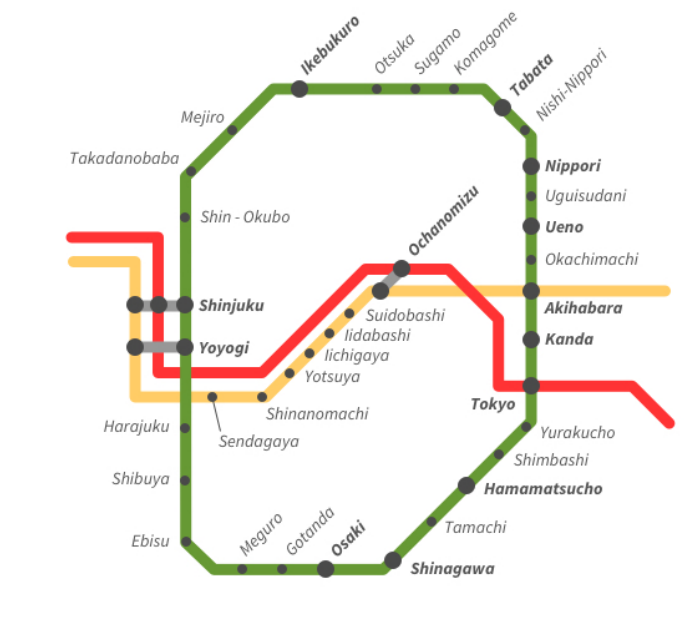
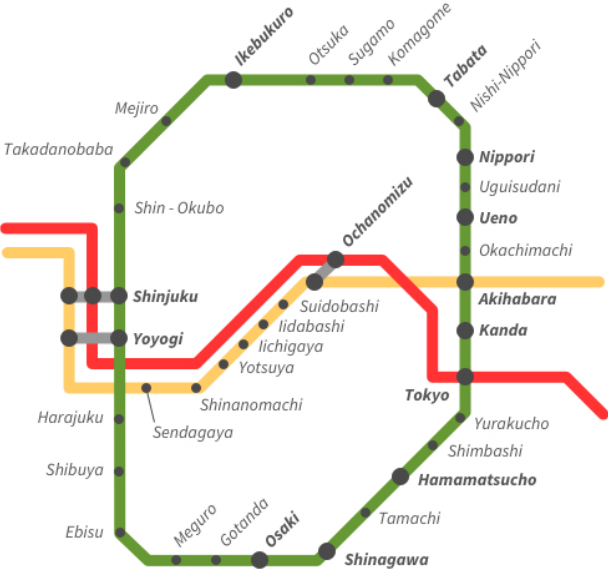
Add files via upload

Changed region(s): [[0.0, 0.0, 1.0, 1.0], [0.8125, 0.0598, 0.9062, 0.1494]]

diff --git a/japonVisual.py b/japonVisual.py
@@ -1,5 +1,9 @@
 # -*- coding: utf-8 -*-
-
+import matplotlib
+matplotlib.use('TkAgg')
+from matplotlib.backends.backend_tkagg import FigureCanvasTkAgg
+from matplotlib.figure import Figure
+import matplotlib.pyplot as plt
 from tkinter import *
 from tkinter.ttk import *
 from networkx import *
@@ -37,15 +41,55 @@ diccNodos = {"Shinagawa": {'f': -1, 'g': -1, 'puntero': -1, 'posH': 0} ,"Osaki":
 
 #Grafo ()
 G = Graph()
-'''listaNodos=["Shinagawa","Osaki","Gotanda","Meguro","Ebisu","Shibuya","Harajuku","Yoyogi","Sobu Yoyogi",
-                            "Yamanote Yoyogi", "Shinjuku","Sobu Shinjuku", "Chuo Shinjuku", "Yamanote Shinjuku","Shin-Okubo",
-                            "Takadanobaba","Mejiro","Ikebukuro","Otsuka","Sugamo",
-                            "Komagome","Tabata","Nishi-Nippori","Nippori","Uguisudani","Ueno","Okachimachi",
-                            "Akihabara", "Yamanote Akihabara", "Sobu Akihabara","Kanda","Tokyo", "Yamanote Tokyo","Chuo Tokyo" ,
-                            "Yurakucho","Shimbashi","Hamamatsucho","Tamachi",
-                            "Ochanomizu", "Sobu Ochanomizu", "Chuo Ochanomizu","Suidobashi","Iidabashi",
-                            "Ichigaya","Yotsuya","Shinanomachi","Sendagaya"]
-G.add_nodes_from(listaNodos)'''
+posNodos={
+"Shinagawa":(327,18),
+"Osaki":(260,9),
+"Gotanda":(215,9),
+"Meguro":(175,9),
+"Ebisu":(120,36),
+"Shibuya":(120,97),
+"Harajuku":(120,150),
+"Yoyogi":(120,230),
+"Sobu Yoyogi":(70,230),
+"Yamanote Yoyogi":(120,230),
+"Shinjuku":(120,273),
+"Sobu Shinjuku":(70,273),
+"Chuo Shinjuku":(92,315),
+"Yamanote Shinjuku":(120,273),
+"Shin-Okubo":(120,360),
+"Takadanobaba":(125,406),
+"Mejiro":(166,467),
+"Ikebukuro":(233,490),
+"Otsuka":(311,488),
+"Sugamo":(350,488),
+"Komagome":(387,488),
+"Tabata":(436,470),
+"Nishi-Nippori":(458,446),
+"Nippori":(465,410),
+"Uguisudani":(465,380),
+"Ueno":(465,350),
+"Okachimachi":(465,317),
+"Akihabara":(465,286),
+"Yamanote Akihabara":(465,286),
+"Sobu Akihabara":(410,286),
+"Kanda":(465,238),
+"Tokyo":(465,192),
+"Yamanote Tokyo":(465,192),
+"Chuo Tokyo":(415,192),
+"Yurakucho":(460,150),
+"Shimbashi":(433,123),
+"Hamamatsucho":(400,91),
+"Tamachi":(365,56),
+"Ochanomizu":(335,309),
+"Sobu Ochanomizu":(314,286),
+"Chuo Ochanomizu":(335,315),
+"Suidobashi":(283,264),
+"Iidabashi":(263,244),
+"Ichigaya":(243,224),
+"Yotsuya":(223,204),
+"Shinanomachi":(195,180),
+"Sendagaya":(146,180)
+}
 
 G.add_edges_from([("Yamanote Shinjuku","Shin-Okubo", {'color':'green', 'weight':1.3}),
                  ("Shin-Okubo","Takadanobaba", {'color':'green', 'weight':1.4}),
@@ -64,7 +108,7 @@ G.add_edges_from([("Yamanote Shinjuku","Shin-Okubo", {'color':'green', 'weight':
                  ("Yamanote Akihabara", "Akihabara", {'color':'grey', 'weight':0.0}),
                  ("Yamanote Akihabara", "Kanda", {'color':'green', 'weight':0.7}),
                  ("Kanda", "Yamanote Tokyo", {'color':'green', 'weight':1.3}),
-                 ("Yamanote Tokyo", "Tokyo", {'color':'grey', 'weight':0.0}),
+                 ("Yamanote Tokyo", "Tokyo", {'color':'blue', 'weight':0.0}),
                  ("Yamanote Tokyo", "Yurakucho", {'color':'green', 'weight':0.8}),
                  ("Yurakucho", "Shimbashi", {'color':'green', 'weight':1.1}),
                  ("Shimbashi", "Hamamatsucho", {'color':'green', 'weight':1.2}),
@@ -77,15 +121,15 @@ G.add_edges_from([("Yamanote Shinjuku","Shin-Okubo", {'color':'green', 'weight':
                  ("Ebisu", "Shibuya", {'color':'green', 'weight':1.6}),
                  ("Shibuya", "Harajuku", {'color':'green', 'weight':1.2}),
                  ("Harajuku", "Yamanote Yoyogi", {'color':'green', 'weight':1.5}),
-                 ("Yamanote Yoyogi", "Yoyogi", {'color':'grey', 'weight':0.0}),
+                 ("Yamanote Yoyogi", "Yoyogi", {'color':'blue', 'weight':0.0}),
                  ("Yamanote Yoyogi", "Yamanote Shinjuku", {'color':'green', 'weight':0.7}),
-                 ("Yamanote Shinjuku", "Shinjuku", {'color':'grey', 'weight':0.0}),
-                 ("Shinjuku", "Chuo Shinjuku", {'color':'grey', 'weight':0.0}),
+                 ("Yamanote Shinjuku", "Shinjuku", {'color':'blue', 'weight':0.0}),
+                 ("Shinjuku", "Chuo Shinjuku", {'color':'blue', 'weight':0.0}),
                  ("Chuo Shinjuku", "Chuo Ochanomizu", {'color':'red', 'weight':7.7}),
-                 ("Chuo Ochanomizu", "Ochanomizu", {'color':'grey', 'weight':0.0}),
+                 ("Chuo Ochanomizu", "Ochanomizu", {'color':'blue', 'weight':0.0}),
                  ("Chuo Ochanomizu", "Chuo Tokyo", {'color':'red', 'weight':2.6}),
-                 ("Chuo Tokyo", "Tokyo", {'color':'grey', 'weight':0.0}),
-                 ("Shinjuku", "Sobu Shinjuku", {'color':'grey', 'weight':0.0}),
+                 ("Chuo Tokyo", "Tokyo", {'color':'blue', 'weight':0.0}),
+                 ("Shinjuku", "Sobu Shinjuku", {'color':'blue', 'weight':0.0}),
                  ("Sobu Shinjuku", "Sobu Yoyogi", {'color':'yellow', 'weight':0.7}),
                  ("Sobu Yoyogi", "Yoyogi", {'color':'grey', 'weight':0.0}),
                  ("Sobu Yoyogi", "Sendagaya", {'color':'yellow', 'weight':1.0}),
@@ -95,16 +139,15 @@ G.add_edges_from([("Yamanote Shinjuku","Shin-Okubo", {'color':'green', 'weight':
                  ("Ichigaya", "Iidabashi", {'color':'yellow', 'weight':1.5}),
                  ("Iidabashi", "Suidobashi", {'color':'yellow', 'weight':0.9}),
                  ("Suidobashi", "Sobu Ochanomizu", {'color':'yellow', 'weight':0.8}),
-                 ("Sobu Ochanomizu", "Ochanomizu", {'color':'grey', 'weight':0.0}),
+                 ("Sobu Ochanomizu", "Ochanomizu", {'color':'blue', 'weight':0.0}),
                  ("Sobu Ochanomizu", "Sobu Akihabara", {'color':'yellow', 'weight':0.9}),
-                 ("Sobu Akihabara", "Akihabara", {'color':'grey', 'weight':0.0}),
+                 ("Sobu Akihabara", "Akihabara", {'color':'blue', 'weight':0.0}),
                  ("Yamanote Yoyogi", "Sobu Yoyogi", {'color' :'grey', 'weight':0.2}),
                  ("Yamanote Shinjuku", "Chuo Shinjuku", {'color':'grey', 'weight':0.2}),
                  ("Yamanote Akihabara", "Sobu Akihabara", {'color':'grey', 'weight':0.2})
                  ])
 
-#nx.draw(G, pos=nx.spectral_layout(G),with_labels=True, font_weight='bold')
-
+colorLinea={'green': 'Yamanote', 'red': 'Chuo', 'yellow': 'Sobu', 'grey': 'Interchange','blue': 'Simbolic'}
 
 def algoritmoA_Estrella(origenNombre, destinoNombre,G) :
     origen = diccNodos[origenNombre]
@@ -198,29 +241,24 @@ def cogerLinea(fila):
             next(reader)
         return next(reader)
     
-def eliminarNodosAux(origenNombre, destinoNombre, G):
+def eliminarNodosAux(G,origenNombre=None, destinoNombre=None):
     L = ['Shinjuku', 'Akihabara', 'Tokyo', 'Ochanomizu' , 'Yoyogi']
     for nodo in L: 
         if (nodo != origenNombre and nodo != destinoNombre) :
            G.remove_node(nodo)
-
-colorLinea={'green': 'Yamanote', 'red': 'Chuo', 'yellow': 'Sobu', 'grey': 'Interchange'}
-
-
 
 def calcularResumenCamino():
     if(seleccionOrigen.current() !=-1 and seleccionDestino.current()!=-1):
         #Habilita el boton de dibujar
         if str(botonPintarGrafo['state']) == 'disabled':
             botonPintarGrafo['state'] = 'normal'
-
+        global camino
         treeResultado.delete(*treeResultado.get_children())
         origenNombre = seleccionOrigen.get()
         destinoNombre = seleccionDestino.get()
         Gcopia = G.copy()
-        eliminarNodosAux(origenNombre, destinoNombre, Gcopia)
+        eliminarNodosAux(Gcopia, origenNombre, destinoNombre)
         camino = algoritmoA_Estrella(origenNombre, destinoNombre, Gcopia.copy())
-        print (camino)
         linea = None
         longCamino = len(camino)
         for i in range(longCamino):
@@ -229,15 +267,59 @@ def calcularResumenCamino():
             elif i==longCamino-1:
                 treeResultado.insert('','end',text=camino[i])
             else:
-                print (linea)
                 if linea==None or colorLinea[Gcopia[camino[i-1]][camino[i]]['color']]!=linea:
-                    linea=colorLinea[Gcopia[camino[i-1]][camino[i]]['color']]
-                    if i != 1:
+                    if colorLinea[Gcopia[camino[i-1]][camino[i]]['color']] == 'Interchange':
+                        linea=colorLinea[Gcopia[camino[i]][camino[i+1]]['color']]
+                    else:
+                         linea=colorLinea[Gcopia[camino[i-1]][camino[i]]['color']]
+                    if i ==1:
+                        treeResultado.insert(padre,'end',text=camino[i])
+                    else:
                         padre = treeResultado.insert('','end',text=camino[i])
+                    treeResultado.set(padre,'linea',linea)
+                    #treeResultado.item(padre,tags=('Yamanote'))
                 else: 
                     treeResultado.insert(padre,'end',text=camino[i])
-                    
 
+def pintarGraph():
+    global camino
+    #top = Toplevel()
+    #top.title('Ruta en el Mapa')
+    #topFrame= Frame(top)
+    #topFrame.pack()
+    #topFrame.config(width=600,height = 600)
+    f = plt.figure(figsize=(18,15),dpi=100,num='Ruta en el Mapa')
+    thismanager = plt.get_current_fig_manager()
+    #Icon made by Freepik from www.flaticon.com
+    thismanager.window.wm_iconbitmap("konoha.ico")
+    a = f.add_subplot(111)
+    plt.axis('off')
+    
+    Gcopia = G.copy()
+    eliminarNodosAux(Gcopia)
+    nodes= Gcopia.nodes()
+    edges = Gcopia.edges()
+    L = ['Shinjuku', 'Akihabara', 'Tokyo', 'Ochanomizu' , 'Yoyogi']
+    caminoNodos = [parada for parada in camino if parada not in L]
+    caminoEdges = [(caminoNodos[i],caminoNodos[i+1]) for i in range(len(caminoNodos)-1)]
+    colorsE = [G[u][v]['color']for u,v in edges]
+    weightsE = [4 + 2.2/(G[u][v]['weight']) for u,v in edges]
+    nx.draw_networkx(Gcopia, posNodos,node_color='grey',node_size=200,width =weightsE,
+                     alpha=0.8, with_labels=True, font_weight='bold', edge_color=colorsE)
+    
+    nx.draw_networkx_edges(Gcopia, posNodos,
+                       edgelist=caminoEdges,
+                       width=[4 + 2.2/Gcopia[caminoNodos[i]][caminoNodos[i+1]]['weight'] for i in range(len(caminoNodos)-1)],
+                       edge_color='b',alpha=0.7)
+
+    xlim=a.get_xlim()
+    ylim=a.get_ylim()
+    plt.show()
+    #canvas = FigureCanvasTkAgg(f,master= frame)
+    #canvas.show()
+    #canvas.get_tk_widget().pack(side=Tk.TOP, fill=Tk.BOTH, expand=True)
+    
+    
 root = Tk()
 root.title("Metro Japón")
 root.resizable(0, 0)
@@ -272,18 +354,34 @@ seleccionDestino["values"] = ("Shinagawa","Osaki","Gotanda","Meguro","Ebisu","Sh
                             "Ochanomizu","Suidobashi","Iidabashi","Ichigaya","Yotsuya","Shinanomachi","Sendagaya")
 
 
+camino = None
 
 botonCalcular  = Button (frame, command=calcularResumenCamino, text = "Calcular ruta")
 botonCalcular.grid(row=4, column=0 ,padx=5, pady=5)
 
-botonPintarGrafo = botonPintarGrafo=Button (frame,text = "Dibujar ruta",state=DISABLED)
+botonPintarGrafo=Button (frame,command = pintarGraph,text = "Dibujar ruta",state=DISABLED)
 botonPintarGrafo.grid(row=5, column=0 ,padx=5, pady=5)
 
-labelResultado = Label(frame, text = "Resultado:")
+labelResultado = Label(frame,text = "Resultado:")
 labelResultado.grid(row=0, column=1, sticky=W ,padx=5, pady=5)
 
 treeResultado = Treeview(frame)
+
+
 treeResultado.grid (row=1, column=1, rowspan=5, sticky=W ,padx=5, pady=5)
+treeResultado.config(columns=("linea"))
+treeResultado.column('linea',width=150,anchor='center')
+treeResultado.heading('#0',text='Estación')
+treeResultado.heading('linea',text='Linea')
+
+treeResultado.tag_configure('Chuo', background='red')
+treeResultado.tag_configure('Yamanote', background='green')
+treeResultado.tag_configure('Sobu', background='yellow')
+
+ysb = Scrollbar(frame,orient=VERTICAL, command= treeResultado.yview)
+treeResultado['yscroll'] = ysb.set 
+ysb.grid(row=1, column=2, rowspan=5, sticky='nsew')
+
 
 root.mainloop()
    
